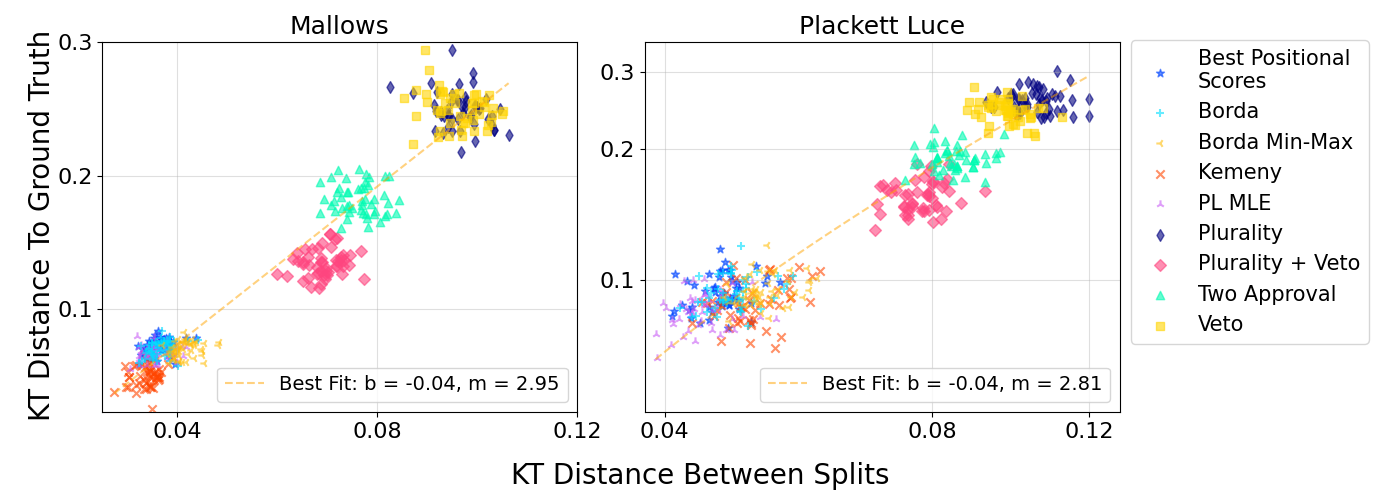
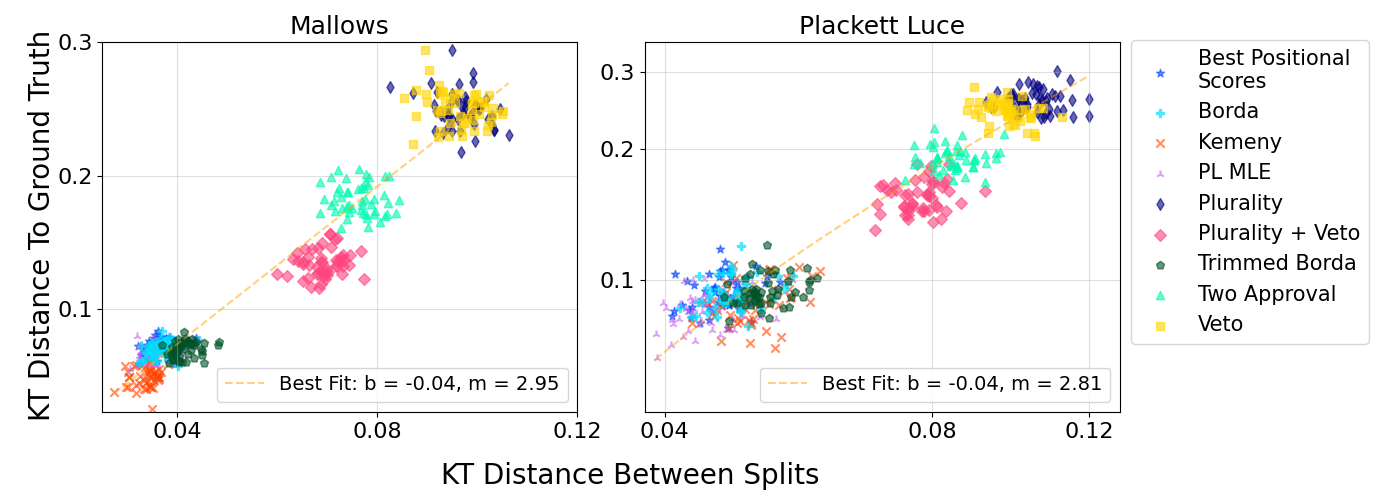
Update README

diff --git a/preflib/prelib_plots.py b/preflib/prelib_plots.py
@@ -785,10 +785,73 @@ def alma_bar_plot(file_name="alma_data_cycle10"):
 
     rule_names = df["rule_name"]
     distances = df["distance"]
+    dist_std = df["distance_std"]
+    data = list(zip(rule_names, distances, dist_std))
+
+    rule_order = ["Single Profile Annealing", "Borda", "PL MLE", "Kemeny", "Plurality Veto", "Two Approval", "Plurality", "Veto", "Trimmed Borda"]
+    # rule_order = ["Pre-Split Trimmed Borda", "Single Profile Annealing", "Borda", "PL MLE", "Kemeny", "Plurality Veto", "Two Approval", "Plurality", "Veto"]
+    data = [tup for tup in data if tup[0] in rule_order]
+    data.sort(key=lambda x: rule_order.index(x[0]))
+    rule_names, distances, dist_std = [list(t) for t in zip(*data)]
+
+    # rename before getting colour
+    rule_names = [rn if rn != "Plurality Veto" else "Plurality + Veto" for rn in rule_names]
+    rule_names = [rn if rn != "Single Profile Annealing" else "Best Positional Scores" for rn in rule_names]
+    color_dict = {
+        # rule: rule_colour_dict[rule] if rule in rule_colour_dict else plt_util.get_consistent_color(rule)
+        rule: plt_util.get_consistent_color(rule,
+                                            cache=rule_colour_dict)
+        for rule in rule_names
+    }
+    colors = [c for rule, c in color_dict.items()]
+
+    # rename after getting colour...
+    rule_names = [rn if rn != "Best Positional Scores" else "Best Positional\nScores" for rn in rule_names]
+    rule_names = [rn if rn != "Pre-Split Trimmed Borda" else "Pre-Split\nTrimmed Borda" for rn in rule_names]
+
+    # # Update annealing rule name to fit better
+    # mean_distances['rule_name'] = mean_distances['rule_name'].apply(
+    #     lambda x: x if x != "Best Positional Scores" else "Best Positional\nScores")
+
+    plt.figure(figsize=(10, 4.5))
+    plt.grid(True, alpha=0.3, axis="y")
+    bars = plt.bar(
+        rule_names, distances,
+        yerr=dist_std,
+        color=colors,
+        # error_kw={'elinewidth': 1.5, 'alpha': 0.5}
+    )
+
+    plt.xticks(rotation=45, ha='right')
+    plt.ylabel("Distance", fontsize=14)
+    plt.ylim((0.07, 0.145))
+    plt.gca().tick_params(axis='both', which='major', labelsize=16)
+
+    # Add the actual average values on top of each bar
+    for bar in bars:
+        height = bar.get_height()
+        plt.text(bar.get_x() + bar.get_width() / 2., height + 0.02 * max(distances),
+                 f'{height:.3f}', ha='center', va='bottom', size=16)
+
+    plt.tight_layout()
+
+    plt.show()
+    # plt.savefig(f"{folder}/{file_name}-distances.png")
+
+
+def alma_bar_plot_jaccard(file_name="alma_data_cycle10-jaccard"):
+    # file_name = "alma_data_cycle10"
+    # file_name = "alma_output"
+    folder = "alma_data"
+    data_path = f"{folder}/results-{file_name}.csv"
+    df = pd.read_csv(data_path)
+
+    rule_names = df["rule_name"]
+    distances = df["distance"]
     dist_std = df["distance_sem"]
     data = list(zip(rule_names, distances, dist_std))
 
-    rule_order = ["Trimmed Borda", "Single Profile Annealing", "Borda", "PL MLE", "Kemeny", "Plurality Veto", "Two Approval", "Plurality", "Veto",]
+    rule_order = ["Single Profile Annealing", "Borda", "PL MLE", "Kemeny", "Plurality Veto", "Two Approval", "Plurality", "Veto", "Trimmed Borda"]
     data = [tup for tup in data if tup[0] in rule_order]
     data.sort(key=lambda x: rule_order.index(x[0]))
     rule_names, distances, dist_std = [list(t) for t in zip(*data)]
@@ -821,14 +884,14 @@ def alma_bar_plot(file_name="alma_data_cycle10"):
     )
 
     plt.xticks(rotation=45, ha='right')
-    plt.ylabel("Distance", fontsize=14)
-    plt.ylim((0.05, 0.13))
+    plt.ylabel("Jaccard Dissimilarity", fontsize=14)
+    plt.ylim((0.7, 1.05))
     plt.gca().tick_params(axis='both', which='major', labelsize=16)
 
     # Add the actual average values on top of each bar
     for bar in bars:
         height = bar.get_height()
-        plt.text(bar.get_x() + bar.get_width() / 2., height + 0.04 * max(distances),
+        plt.text(bar.get_x() + bar.get_width() / 2., height + 0.02 * max(distances),
                  f'{height:.3f}', ha='center', va='bottom', size=16)
 
     plt.tight_layout()
@@ -852,5 +915,8 @@ if __name__ == "__main__":
 
     # count_min_distance_ties()
 
-    alma_bar_plot(file_name="alma_data_cycle10")
-    alma_bar_plot(file_name="alma_output")
+    alma_bar_plot(file_name="alma_data_cycle10-full")
+    alma_bar_plot(file_name="alma_output-full")
+
+    # alma_bar_plot_jaccard(file_name="alma_data_cycle10-jaccard")
+    # alma_bar_plot_jaccard(file_name="alma_output-jaccard")

diff --git a/plotting.py b/plotting.py
@@ -26,6 +26,8 @@ rule_names = {
     'Optimized Scores': 'Best Positional Scores',
     'Anti-Plurality': 'Veto',
     'Plurality Veto': 'Plurality + Veto',
+    # 'Borda Min-Max': 'Trimmed Borda',
+    'Trimmed Borda': 'Pre-Split Trimmed Borda',
     # 'Kemeny': '4',
     # 'Anti-Plurality': '+',
     # 'Borda': '^',
@@ -171,7 +173,10 @@ rule_colour_dict = {'Best Positional Scores': [0.0, 0.26972, 1.0, 1.0],
                     # 'Plurality + Veto': [0.9961, 0.9725, 0.9961, 1.0],
                     'Plurality + Veto': [0.9961, 0.2725, 0.4961, 1.0],
                     'Two Approval': [0.0, 0.9844, 0.69776, 1.0],
-                    'Veto': [0.40425, 0.82895, 0.0, 1.0]}
+                    'Veto': [0.40425, 0.82895, 0.0, 1.0],
+                    'Trimmed Borda': [0.0, 0.31916, 0.1523, 1.0],
+                    "Pre-Split Trimmed Borda": [0.0, 0.31916, 0.1523, 1.0],
+                    }
 rule_marker_dict = {
     "Best Positional Scores": "*",
     "Borda": "P",
@@ -344,6 +349,14 @@ def add_series_data_to_axis(ax, data, scatter=False):
                                            colormap="gist_ncar",
                                            # cache=rule_colour_dict,
                                            cache=rule_colour_dict,
+                                           excluded_colors={
+                                               (0.97098, 0.80901, 0.97465, 0.6),
+                                               (0.0, 0.9853, 0.40946, 0.6),
+                                               (0.0, 0.99109, 0.79418, 0.6),
+                                               (0.0, 0.77523, 1.0, 0.6),
+                                               (0.73245, 1.0, 0.23416, 0.6),
+                                               (1.0, 0.0373, 0.0, 0.6)
+                                           },
                                            alpha=line_alpha,
                                            force_alpha=True)
 
@@ -580,7 +593,7 @@ def plot_kt_distance_vs_ground_truth_multiple_voter_combos(show=False, out_folde
 
 def plot_kt_distance_vs_ground_truth():
     conference = True  # changes formatting of the figure
-    filename = "results/experiment-ground_truth_vs_split_distance-testing-nsplits=10-neurips.csv"
+    # filename = "results/experiment-ground_truth_vs_split_distance-testing-nsplits=10-neurips.csv"
     filename = "results/experiment-ground_truth_vs_split_distance-testing-nsplits=10-trimmed.csv"
 
     df = pd.read_csv(filename)
@@ -664,7 +677,7 @@ def plot_kt_distance_vs_ground_truth():
             axes[idx].set_xlim((0.025, 0.115))
             axes[idx].set_ylim((0.023, 0.3))
         elif pref_dist == "plackett_luce":
-            axes[idx].set_xlim((0.035, 0.13))
+            axes[idx].set_xlim((0.038, 0.13))
             axes[idx].set_ylim((0.055, 0.35))
 
         # x_ticks = [0.04, 0.07, 0.10, 0.13]

diff --git a/preference_data_analysis.py b/preference_data_analysis.py
@@ -175,17 +175,17 @@ def evaluate_rankings_alma(rankings, num_alternatives, normalize, include_rule=N
 
     all_rules = [
         vu.trimmed_borda_ranking,
-        # vu.borda_minmax_ranking,
-        # vu.choix_pl_ranking,
+        vu.borda_minmax_ranking,
+        vu.choix_pl_ranking,
         vu.borda_ranking,
         vu.plurality_ranking,
         vu.plurality_veto_ranking,
         vu.antiplurality_ranking,
         vu.two_approval_ranking,
-        # vu.three_approval_ranking,
-        # vu.seven_approval_ranking,
-        # vu.eight_approval_ranking,
-        # vu.nine_approval_ranking,
+        # # vu.three_approval_ranking,
+        # # vu.seven_approval_ranking,
+        # # vu.eight_approval_ranking,
+        # # vu.nine_approval_ranking,
     ]
     all_rule_score_vectors = [
         vu.borda_ranking_vector(k),
@@ -585,15 +585,15 @@ def evaluate_alma_data(file_dir="alma_data", file_name="alma_output.csv"):
 
 
 if __name__ == "__main__":
-    # evaluate_olympics_data()
-    # evaluate_preflib_data()
-    evaluate_alma_data(
-        file_dir="alma_data",
-        file_name="alma_output.csv",
-        # file_name="alma_data_cycle10.csv",
-    )
-    evaluate_alma_data(
-        file_dir="alma_data",
-        # file_name="alma_output.csv",
-        file_name="alma_data_cycle10.csv",
-    )
+    evaluate_olympics_data()
+    evaluate_preflib_data()
+    # evaluate_alma_data(
+    #     file_dir="alma_data",
+    #     file_name="alma_output.csv",
+    #     # file_name="alma_data_cycle10.csv",
+    # )
+    # evaluate_alma_data(
+    #     file_dir="alma_data",
+    #     # file_name="alma_output.csv",
+    #     file_name="alma_data_cycle10.csv",
+    # )

diff --git a/rule_comparison.py b/rule_comparison.py
@@ -165,7 +165,7 @@ def jaccard_distance_between_rankings(r1, r2, weights=None, num_winners=None):
     for idx, order in enumerate(r1):
         order_list = list(order)
         if len(winners1) + len(order) > num_winners:
-            print(f"Split 1 at index {idx} overflowing list of ties has length {len(order)}. We take {num_winners-len(winners1)}.")
+            # print(f"Split 1 at index {idx} overflowing list of ties has length {len(order)}. We take {num_winners-len(winners1)}.")
             # shuffle tied winners and take random selection to get required number of winners
             random.shuffle(order_list)
             winners1 += order_list[:num_winners-len(winners1)]
@@ -177,7 +177,7 @@ def jaccard_distance_between_rankings(r1, r2, weights=None, num_winners=None):
     for idx, order in enumerate(r2):
         order_list = list(order)
         if len(winners2) + len(order) > num_winners:
-            print(f"Split 2 at index {idx} overflowing list of ties has length {len(order)}. We take {num_winners-len(winners2)}.")
+            # print(f"Split 2 at index {idx} overflowing list of ties has length {len(order)}. We take {num_winners-len(winners2)}.")
             # shuffle tied winners and take random selection to get required number of winners
             random.shuffle(order_list)
             winners2 += order_list[:num_winners-len(winners2)]

diff --git a/scoring_analysis.py b/scoring_analysis.py
@@ -34,16 +34,18 @@ def lehmer_mean(values, p):
 
     return numerator / denominator
 
+
 def tmean(vals):
     """
     Trimmed mean - Mean after removing the minimum and maximum values
     :param vals:
     :return:
     """
-    # if len(vals) <= 2:
-    #     raise ValueError(f"Too few values to test. Got only {len(vals)}")
-    # svals = sorted(vals)
-    return np.mean(vals)
+    if len(vals) <= 2:
+        raise ValueError(f"Too few values to test. Got only {len(vals)}")
+    svals = sorted(vals)
+    # return np.mean(vals)
+    return np.mean(svals[1:-1])
 
 
 def score_data_kt_distance(review_scores):
@@ -66,7 +68,7 @@ def score_data_kt_distance(review_scores):
             if len(scores) < 6:
                 continue
 
-            trim = True
+            trim = False
             if trim:
                 scores = scores[1:-1]
 

diff --git a/utils/voting_utils.py b/utils/voting_utils.py
@@ -1484,11 +1484,11 @@ def kemeny_gurobi_lazy(profile, time_out=None, printout_mode=False, **kwargs):
                 G.add_edge(i, j, weight=edge_weights_np[i, j])
     G = gpcm.add_orig_edges_map(G)
     G = nx.DiGraph(G)
-    # time_out = 150
-    # t1 = time.time()
-    # print(f"Starting Kemeny with time_out={time_out}")
+    time_out = 150
+    t1 = time.time()
+    print(f"Starting Kemeny with time_out={time_out}")
     elims, cost, cycle_matrix = gl.solve_problem(G, time_out=time_out, print_mode=printout_mode)
-    # print(f"Just finished Kemeny. Took {time.time() - t1}")
+    print(f"Just finished Kemeny. Took {time.time() - t1}")
     for (u, v) in elims:
         edge_weights_np[u, v] = 0.0
     ranking = topological_sort_kahn(edge_weights_np)
